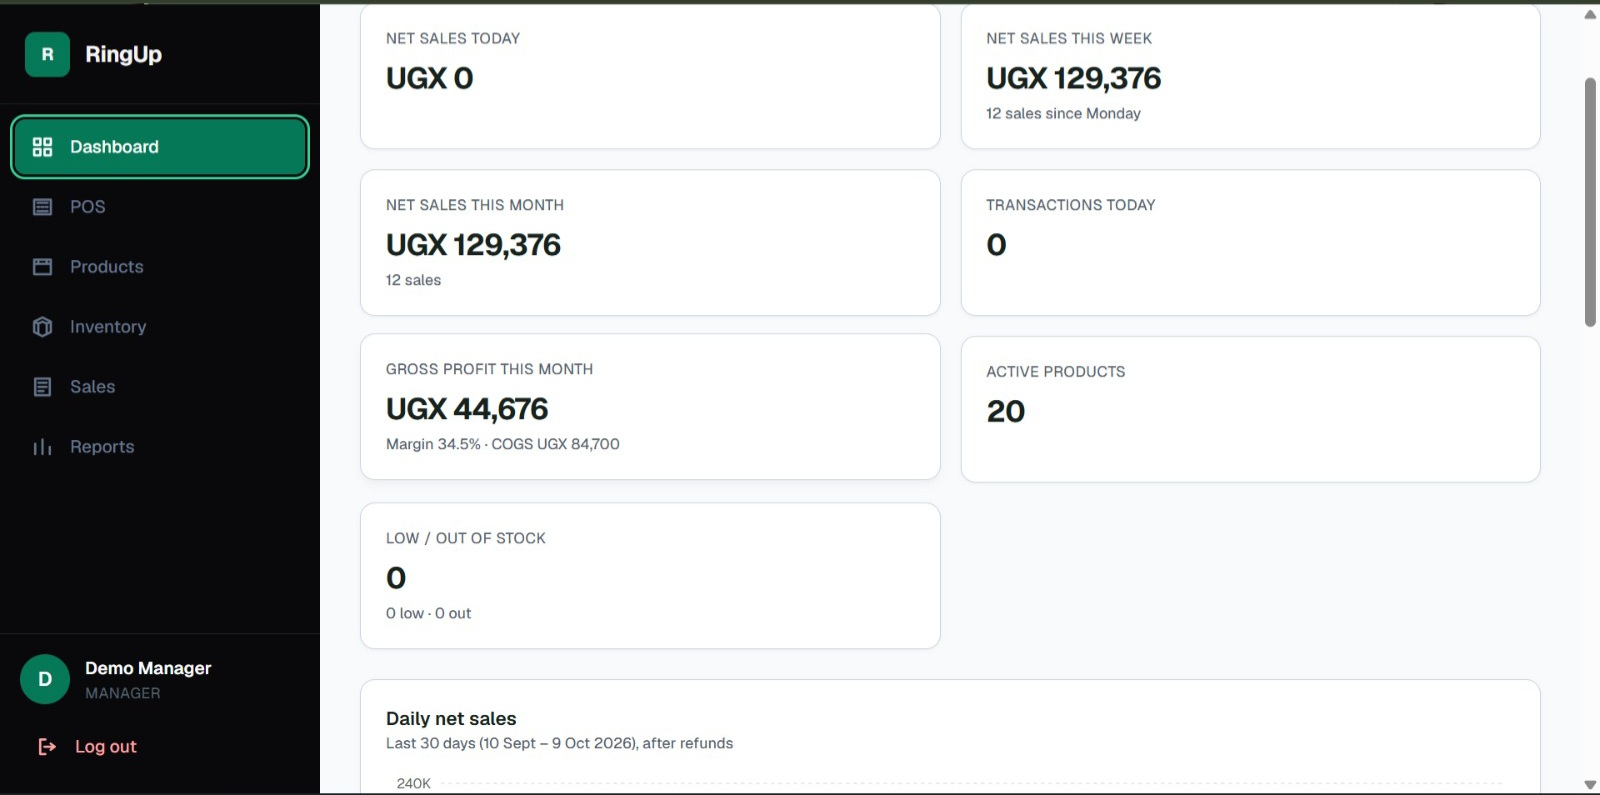
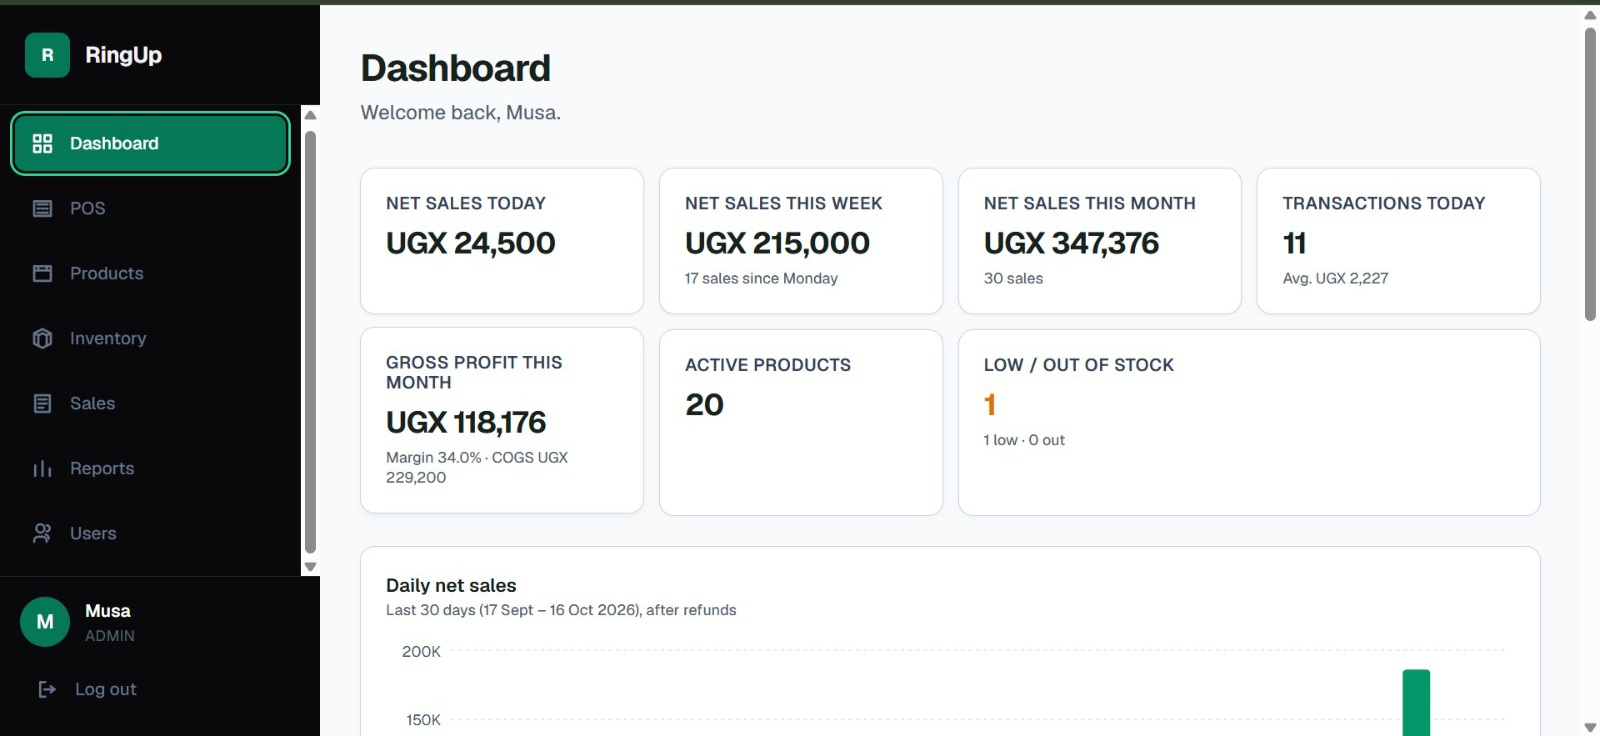
Update public landing page

diff --git a/app/page.tsx b/app/page.tsx
@@ -10,7 +10,12 @@ const features = [
   {
     title: "Keep stock up to date",
     description: "Manage products and categories, record stock changes and see what is running low.",
-    badge: "Products",
+    badge: "Inventory",
+  },
+  {
+    title: "Manage supplier orders",
+    description: "Create purchase orders, track their progress and receive items into stock.",
+    badge: "Purchases",
   },
   {
     title: "Check your sales",
@@ -56,14 +61,14 @@ export default function Home() {
           <div className="px-4">
             <span className="inline-block rounded-full bg-emerald-100 px-3.5 py-1.5 text-xs font-semibold text-emerald-900">Made for shops</span>
             <h1 className="mx-auto mt-5 max-w-3xl text-3xl font-bold leading-[1.08] tracking-tight sm:text-5xl lg:text-[56px]">
-              Sell fast. Stay in stock. See the whole shop.
+              Run your shop from one place.
             </h1>
             <p className="mx-auto mt-6 max-w-xl text-base leading-7 text-slate-600 sm:text-lg">
-              RingUp helps your team sell products, manage stock, review sales and keep the day moving from one place.
+              Check out customers, manage products and supplier orders, and keep sales and stock information close at hand.
             </p>
             <div className="mt-9 flex flex-wrap justify-center gap-3">
               <Link href="/login" className="group inline-flex items-center gap-2 rounded-xl bg-emerald-700 px-6 py-3.5 text-base font-semibold text-white shadow-sm transition hover:bg-emerald-800">
-                Get started
+                Sign in
                 <ArrowIcon />
               </Link>
             </div>
@@ -73,7 +78,7 @@ export default function Home() {
         <section className="mt-6 overflow-hidden rounded-2xl border border-slate-300 bg-white shadow-sm sm:mt-8" aria-label="RingUp workspace preview">
           <div className="bg-slate-50 p-3 sm:p-5">
             <div className="relative mx-auto aspect-[1600/795] w-full max-w-[760px] overflow-hidden rounded-lg border border-slate-200 bg-white shadow-sm">
-              <Image src="/assets/LandingPage/dashboard.jpg" alt="RingUp dashboard showing sample sales, products and stock figures" fill quality={75} sizes="(max-width: 640px) calc(100vw - 2rem), 760px" className="object-contain object-top" />
+              <Image src="/assets/LandingPage/dashboard.jpg" alt="RingUp dashboard showing sales, transactions, products and stock summaries" fill quality={75} sizes="(max-width: 640px) calc(100vw - 2rem), 760px" className="object-contain object-top" />
             </div>
           </div>
           <p className="border-t border-slate-200 px-4 py-2.5 text-center text-xs text-slate-500">Sample figures shown for illustration.</p>
@@ -83,9 +88,9 @@ export default function Home() {
           <div>
             <span className="text-xs font-semibold uppercase tracking-[0.16em] text-emerald-800">One place to run the day</span>
             <h2 className="mt-2 text-3xl font-bold tracking-tight text-slate-950 sm:text-4xl">Everything your shop needs.</h2>
-            <p className="mt-2.5 max-w-xl text-slate-600">The main parts of RingUp work together from the sale to the end-of-day report. Admins, managers and cashiers each get the access they need.</p>
+            <p className="mt-2.5 max-w-xl text-slate-600">Bring checkout, inventory, supplier purchasing and reporting into one workflow, with access tailored for administrators, managers and cashiers.</p>
           </div>
-          <div className="mt-6 grid gap-3.5 sm:grid-cols-3">
+          <div className="mt-6 grid gap-3.5 sm:grid-cols-2 xl:grid-cols-4">
             {features.map((feature) => (
               <article key={feature.title} className="rounded-2xl border border-slate-300 bg-white p-5 shadow-sm">
                 <span className="rounded-full bg-emerald-100 px-2.5 py-1 text-xs font-semibold text-emerald-800">{feature.badge}</span>
@@ -114,9 +119,9 @@ export default function Home() {
           <Image src="/assets/LandingPage/hero-image.jpg" alt="Shop checkout counter with a payment terminal" fill quality={75} sizes="(max-width: 640px) 100vw, 1040px" className="absolute inset-0 -z-20 object-cover" />
           <div className="absolute inset-0 -z-10 bg-emerald-950/80" />
           <h2 className="relative mx-auto max-w-xl text-3xl font-bold tracking-tight sm:text-4xl">Make every sale count.</h2>
-          <p className="relative mx-auto mt-3 max-w-md text-sm leading-6 text-emerald-50">Sell products, record stock changes and review what happened today.</p>
+          <p className="relative mx-auto mt-3 max-w-md text-sm leading-6 text-emerald-50">Keep checkout, stock and sales activity moving with your team.</p>
           <Link href="/login" className="relative mt-6 inline-flex items-center gap-2 rounded-xl bg-white px-6 py-3.5 text-base font-semibold text-emerald-800 shadow-sm transition hover:bg-emerald-50">
-            Get started
+            Sign in
             <ArrowIcon />
           </Link>
         </section>
@@ -124,7 +129,6 @@ export default function Home() {
         <footer className="mt-9 flex flex-col items-start justify-between gap-3 border-t border-slate-300 pt-[22px] text-sm text-slate-600 sm:flex-row sm:items-center">
           <Brand />
           <div className="flex flex-col gap-1 sm:items-end">
-            <p>Email: hello@ringup.com</p>
             <p>Phone: +256 740 707031</p>
           </div>
         </footer>
